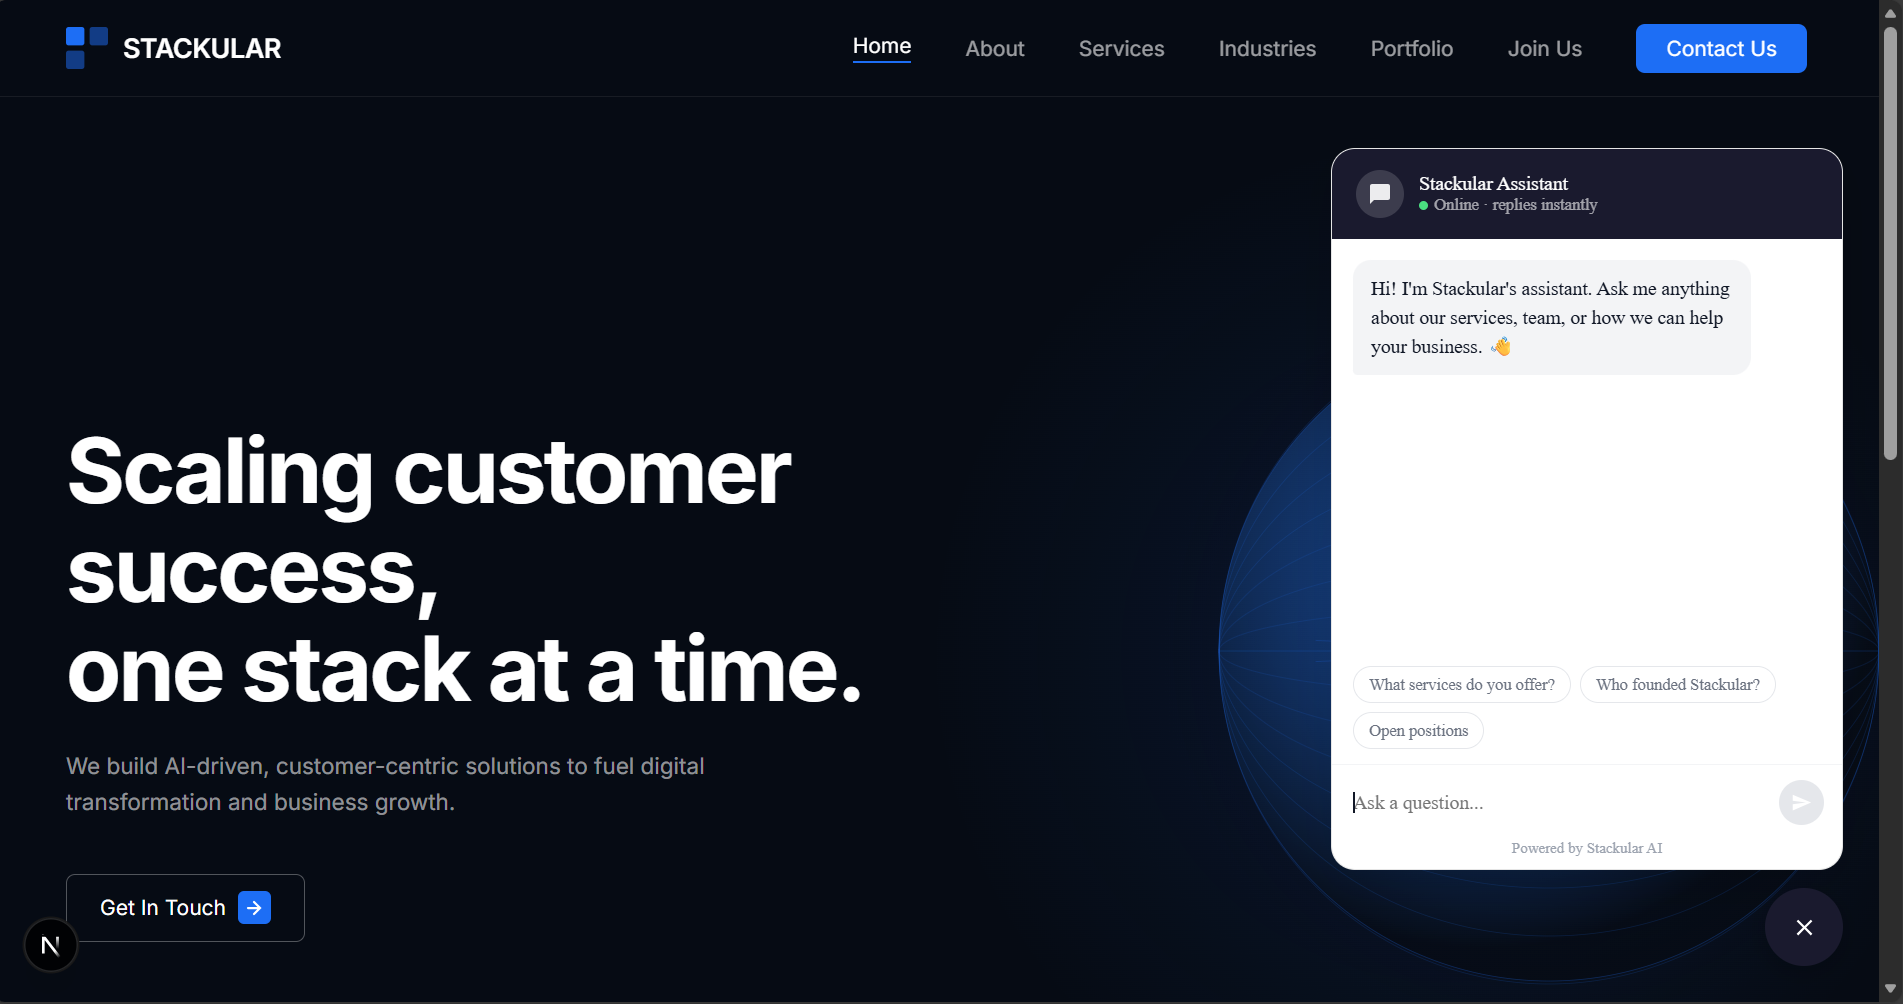
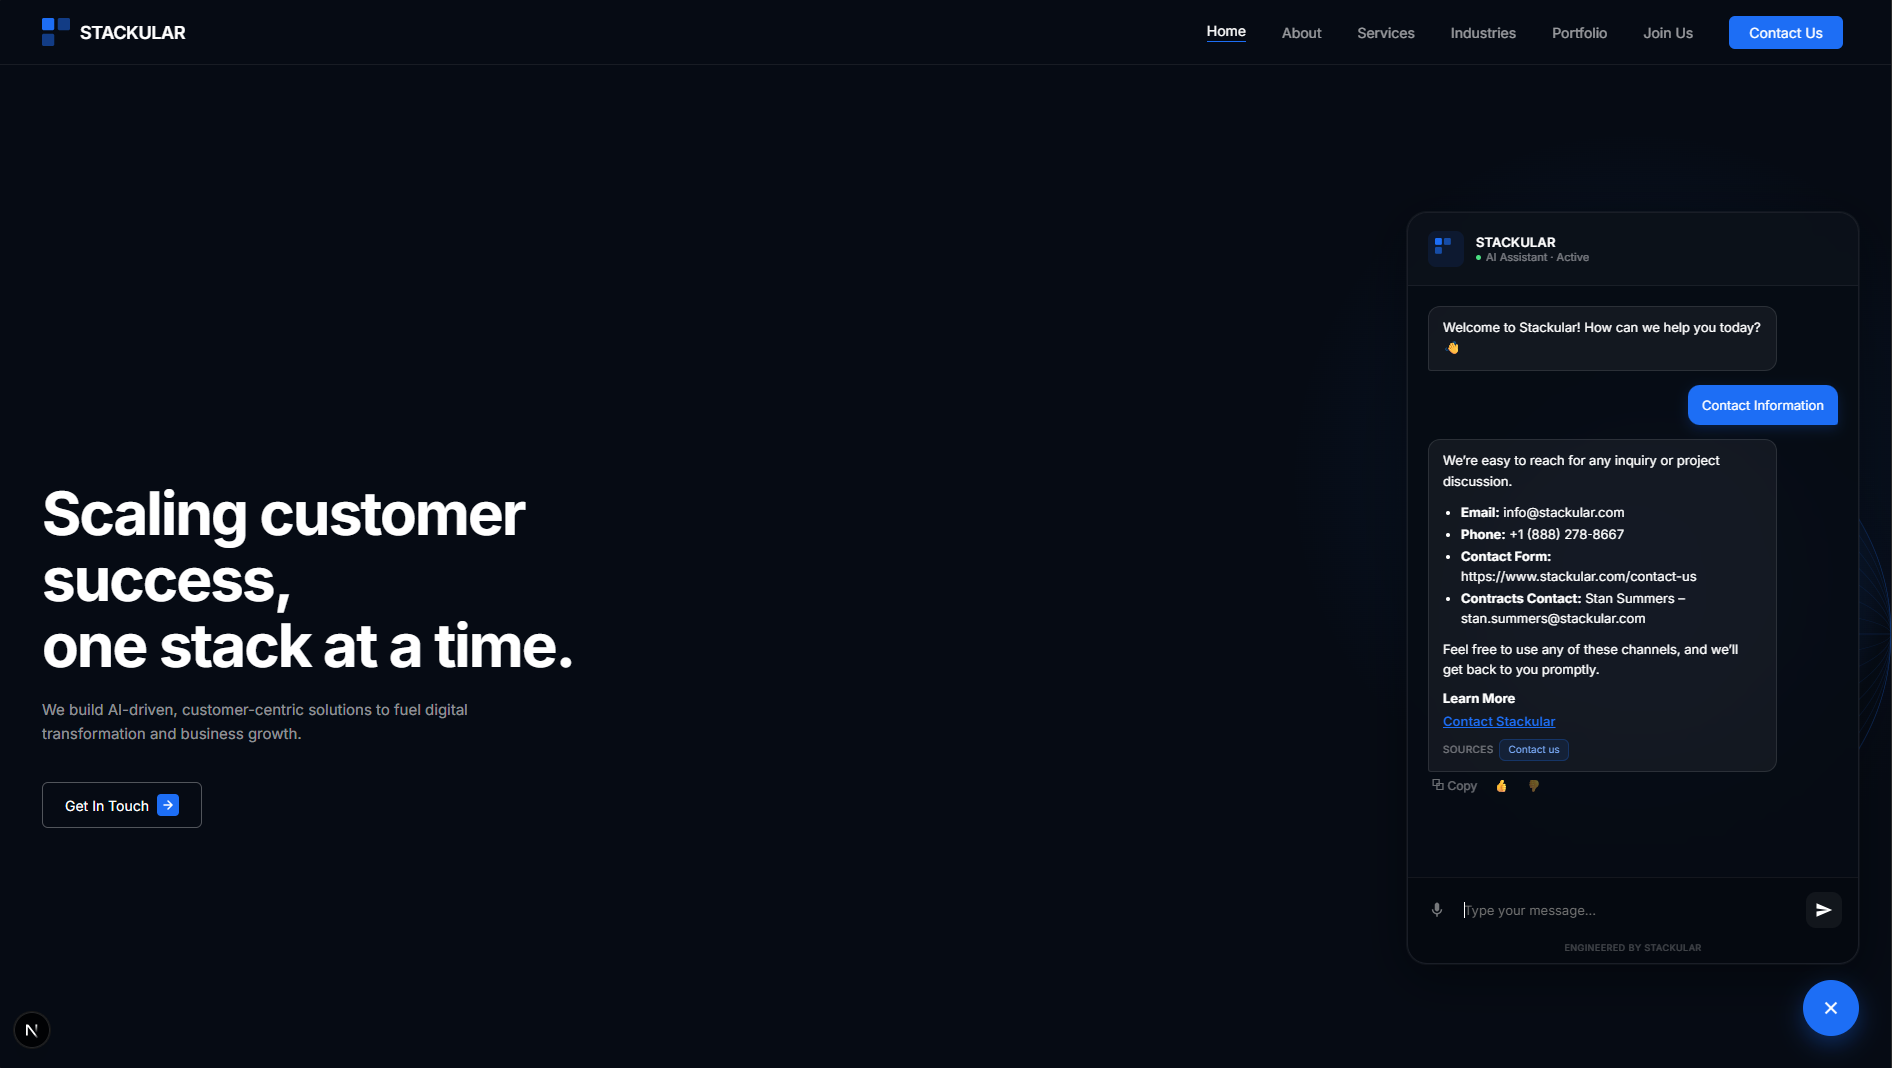
docs: rewrite README to match main's structure, archive scratch/legacy files
README now mirrors main branch's narrative structure (What We Did ->
Architectural Flow -> Models -> Try the Chatbot -> Run steps -> demo
screenshots) while keeping text_rag's more accurate hybrid-search +
rerank content that main's version predates. Swaps the stale March
chatbot-ui.png (pre-dates feedback/sources UI) for a current screenshot.

Moves root-level scratch notes, the deprecated manual_reindex.py, and
early research notes into archive/, organized by role, each explained
in archive/README.md. Nothing deleted - full git history preserved via
renames. Updates directory-structure.md and known-issues.md, which
were already pointing at files that no longer existed.

diff --git a/README.md b/README.md
@@ -1,12 +1,12 @@
 # Stackular Website Chatbot
 
-This project is an AI-powered website chatbot designed for the Stackular website. It provides automated, context-aware responses to user queries relating to Stackular's services, industry expertise, and company contact information.
+This project is an AI-powered website chatbot designed for the Stackular website. It provides automated, context-aware responses to visitor queries relating to Stackular's services, industry expertise, and company contact information.
 
-## What We Built
+## What We Did
 
-A RAG (Retrieval-Augmented Generation) chatbot that answers questions about Stackular using a curated knowledge base. The bot uses hybrid search (dense vectors + BM25 keyword matching) against a Pinecone index to retrieve relevant context, then streams grounded answers from Llama 3.3 70B via Groq.
+We built an intelligent Retrieval-Augmented Generation (RAG) chatbot capable of answering questions about Stackular. Content is maintained as a curated Markdown knowledge base rather than scraped at runtime, so answers stay grounded in reviewed, accurate information. The bot combines dense vector search with BM25 keyword matching (hybrid search), reranks the results for relevance, and streams grounded answers back to the visitor in real time.
 
-## How It Works — Architectural Flow
+## How We Did It — Architectural Flow
 
 ```
 User query
@@ -17,21 +17,23 @@ Next.js frontend (ChatWidget.jsx)
     ▼
 FastAPI backend (port 8000)
     │
+    ├─ Follow-ups rewritten into standalone queries (condense_question)
+    │
     ├─ Hybrid retrieval from Pinecone
     │    ├─ Dense: BAAI/bge-small-en (384-dim, local)
     │    └─ Sparse: BM25Encoder (pinecone-text)
     │
+    ├─ Reranked to the most relevant chunks (Pinecone-hosted bge-reranker-v2-m3)
+    │
     ├─ Context + chat history injected into prompt
     │
-    └─ Groq API → llama-3.3-70b-versatile → StreamingResponse
+    └─ Groq API → openai/gpt-oss-120b → StreamingResponse (SSE)
 ```
 
 ### Knowledge Base & Indexing Flow
 
-Content is maintained as a manually curated Markdown file — no runtime web scraping.
-
 ```
-knowledge_base.md (local Markdown)
+knowledge_base.md (local Markdown, source of truth)
     │
     ├─ RecursiveCharacterTextSplitter (600 chars / 100 overlap)
     │
@@ -45,21 +47,24 @@ knowledge_base.md (local Markdown)
 To update the knowledge base:
 1. Edit `knowledge_base.md`
 2. Trigger a reindex: `POST /admin/reindex` with header `X-Admin-Token: <your-token>`
+3. Confirm it landed: `GET /health` should report `vectors_in_index` greater than zero
 
-## Models and Technologies
+## Models and Technologies Used
 
 ### Core Models
 
 | Component | Value |
 |---|---|
-| LLM | `llama-3.3-70b-versatile` via Groq API, temperature 0.3 |
+| LLM | `openai/gpt-oss-120b` via Groq API, temperature 0.3 |
+| Query condensing | `openai/gpt-oss-20b` via Groq API — rewrites follow-ups before retrieval |
 | Embedding | `BAAI/bge-small-en` (384-dim, local via sentence-transformers) |
 | Sparse | BM25Encoder via `pinecone-text` |
+| Reranker | `bge-reranker-v2-m3`, Pinecone-hosted |
 
 ### Infrastructure Stack
 
 - **Vector Database:** Pinecone serverless (AWS us-east-1, `dotproduct` metric — required for hybrid search)
-- **Backend API:** FastAPI + Uvicorn (port 8000)
+- **Backend API:** FastAPI + Uvicorn (port 8000), rate-limited via slowapi
 - **Frontend:** Next.js 14 App Router (port 3000)
 - **Orchestration:** LangChain (text splitting, message formatting)
 - **Dev runner:** `concurrently` via root `npm run dev:all`
@@ -69,16 +74,34 @@ To update the knowledge base:
 - Floating chat bubble (bottom-right, fixed position)
 - Full markdown rendering: bullet lists, numbered lists, bold, inline code, links (XSS-safe)
 - Voice input via Web Speech API
-- Lead capture card on high-intent queries (pricing, demo, hire, etc.)
+- Copy, 👍/👎 feedback, and retry-on-error on every bot message
 - "Talk to the team" CTA after 3+ bot exchanges
 - Chat resets on every page refresh (no localStorage persistence)
 - Mobile-responsive panel (`min(360px, calc(100vw - 32px))`)
 
-## How to Run Locally
+## API Endpoints
+
+| Method | Path | Auth | Description |
+|---|---|---|---|
+| GET | `/` | None | Health ping |
+| GET | `/health` | None | Returns `{status, vectors_in_index}` |
+| POST | `/chat` | None (rate-limited) | Streaming chat (text/event-stream) |
+| POST | `/event` | None (rate-limited) | Lightweight product analytics event |
+| POST | `/feedback` | None (rate-limited) | 👍/👎 rating on a chat message |
+| POST | `/admin/reindex` | `X-Admin-Token` header | Triggers background reindex from knowledge_base.md |
+
+## Try the Chatbot
+
+*(Placeholder: link to the deployed application will go here once hosted publicly.)*
+
+Until then, follow the steps below to run it locally — the walkthrough ends with a look at it actually running.
+
+## How to Run the Project Locally
 
 ### 1. Prerequisites
 
-- Python 3.10+ (3.11 or 3.12 recommended for production)
+Ensure you have the following installed on your system:
+- Python 3.10+ (3.11 or 3.12 recommended for production — see the Pydantic warning note below)
 - Node.js & npm (v18+)
 
 ### 2. Environment Configuration
@@ -96,11 +119,15 @@ ALLOWED_ORIGINS=*
 
 ### 3. Install Root Dependencies
 
+From the root of the project directory (`Stackular_Demo`), install the dependencies that allow running the app in one command:
+
 ```bash
 npm install
 ```
 
 ### 4. Install Component Dependencies
+
+Make sure both halves of the project are set up:
 
 **Backend:**
 ```bash
@@ -120,44 +147,21 @@ cd ..
 
 ### 5. Start the Application
 
+Return to the root directory (`Stackular_Demo`) and run the following command to boot both systems concurrently. On first run, the backend downloads the embedding model and auto-creates the Pinecone index if it doesn't exist, then populates it from `knowledge_base.md` on the first request if it's empty.
+
 ```bash
 npm run dev:all
 ```
 
-Both services start concurrently. On first run, the backend downloads the embedding model and auto-creates the Pinecone index (if it doesn't exist). The index is populated from `knowledge_base.md` automatically on the first request if it is empty.
+![App Running in Terminal](assests/terminal-output.png)
 
-*(You will see Uvicorn start on port 8000 and Next.js start on port 3000)*
+**The Pydantic warning explained**<br>
+<sub>*UserWarning: Core Pydantic V1 functionality isn't compatible with Python 3.14 or greater.*</sub><br>
+<sub>*LangChain relies on Pydantic V1 internally, and Python 3.14 is new enough to trip a compatibility warning against it. It's non-blocking — the app runs normally — but for a production environment, use Python 3.11 or 3.12, the current stable standards for AI/ML libraries.*</sub>
 
 ### 6. Access the Application
 
-Open your browser and navigate to `http://localhost:3000`.
+Open your browser and navigate to:
+`http://localhost:3000`
 
-> **Pydantic V1 warning:** LangChain uses Pydantic V1 internally. Python 3.14 triggers a compatibility warning — it is non-blocking and the app runs normally. Use Python 3.11/3.12 in production to avoid this.
-
-## API Endpoints
-
-| Method | Path | Auth | Description |
-|---|---|---|---|
-| GET | `/` | None | Health ping |
-| GET | `/health` | None | Returns `{status, vectors_in_index}` |
-| POST | `/chat` | None | Streaming chat (text/event-stream) |
-| POST | `/admin/reindex` | `X-Admin-Token` header | Triggers background reindex from knowledge_base.md |
-
-## Updating the Knowledge Base
-
-1. Edit `knowledge_base.md` with new or corrected content
-2. Save the file
-3. Trigger a reindex:
-
-```bash
-curl -X POST http://localhost:8000/admin/reindex \
-  -H "X-Admin-Token: your_admin_token_here"
-```
-
-4. Verify it completed:
-
-```bash
-curl http://localhost:8000/health
-```
-
-The `vectors_in_index` count should be greater than zero.
+![Chatbot User Interface](assests/chatbot-ui.png)

diff --git a/.claude/rules/directory-structure.md b/.claude/rules/directory-structure.md
@@ -7,29 +7,35 @@ Stackular_Demo/
 ├── package.json                 ← root scripts: `npm run dev:all` starts both services
 ├── knowledge_base.md            ← fully curated source-of-truth for RAG (all website pages)
 ├── bm25_params.json             ← fitted BM25 sparse encoder params (auto-generated on reindex)
-├── manual_reindex.py            ← ⚠ DO NOT USE — uses bge-large-en-v1.5 (1024-dim), breaks index
-├── verify_rag.py                ← test retrieval quality
-├── verify_response.py           ← test end-to-end response quality
-├── interaction.md               ← example Q&A showing desired output format
-├── project_review.txt           ← senior dev review with roadmap recommendations
+├── assests/                     ← README screenshots (chatbot-ui.png, terminal-output.png)
+├── archive/                     ← not part of the running app — old scripts, notes, research; see archive/README.md
+│   ├── deprecated-scripts/manual_reindex.py  ← ⚠ DO NOT USE — bge-large-en-v1.5 (1024-dim), breaks the runtime index
+│   ├── notes/                   ← early to-do list, an early prompt draft
+│   └── research/                ← early RAG/hybrid-search research notes (not the knowledge base itself)
 │
 ├── stackular-api/               ← FastAPI backend (Python 3.14, venv at .venv/)
-│   ├── main.py                  ← FastAPI app, CORS middleware, lazy startup
-│   ├── reindex.py               ← in-package reindex helper (not the root manual_reindex.py)
-│   ├── requirements.txt         ← no selenium/beautifulsoup4/webdriver-manager
+│   ├── main.py                  ← FastAPI app, lifespan startup, CORS + rate-limit middleware
+│   ├── reindex.py               ← in-package reindex helper (not the archived manual_reindex.py)
+│   ├── requirements.txt
 │   ├── .env                     ← GROQ_API_KEY, PINECONE_API_KEY, ADMIN_TOKEN, ALLOWED_ORIGINS
+│   ├── eval/                    ← retrieval/response quality eval harness (eval_set.jsonl + run_eval.py)
 │   └── app/
-│       ├── core/config.py       ← Settings: PINECONE_API_KEY, GROQ_API_KEY, ADMIN_TOKEN, ALLOWED_ORIGINS
-│       ├── models/schemas.py    ← ChatRequest with field_validator (strips whitespace, ≤1000 chars)
+│       ├── core/
+│       │   ├── config.py        ← Settings: API keys, ADMIN_TOKEN, ALLOWED_ORIGINS, model names, rate limits
+│       │   ├── logging_config.py ← structured stdout logging for the 'stackular' logger namespace
+│       │   └── rate_limit.py    ← shared slowapi Limiter (keyed by client IP)
+│       ├── models/schemas.py    ← ChatRequest, EventRequest, FeedbackRequest
 │       ├── api/
-│       │   ├── deps.py          ← get_embedder() + get_index() (lazy singletons, auto-creates index)
+│       │   ├── deps.py          ← get_embedder() / get_index() / get_pinecone_client() (lazy singletons)
 │       │   ├── main.py          ← APIRouter aggregator
 │       │   └── routes/
-│       │       ├── chat.py      ← POST /chat → StreamingResponse (text/event-stream)
+│       │       ├── chat.py      ← POST /chat → StreamingResponse (text/event-stream), rate-limited
 │       │       ├── health.py    ← GET /health → {status, vectors_in_index}
-│       │       └── admin.py     ← POST /admin/reindex → requires X-Admin-Token header
+│       │       ├── admin.py     ← POST /admin/reindex → requires X-Admin-Token header
+│       │       ├── events.py    ← POST /event → lightweight analytics (logged, not persisted)
+│       │       └── feedback.py  ← POST /feedback → 👍/👎 on a message (logged, not persisted)
 │       └── services/
-│           └── rag_service.py   ← core RAG logic
+│           └── rag_service.py   ← core RAG logic: hybrid retrieval, rerank, query condensing, streaming
 │
 └── stackular-frontend/          ← Next.js 14 frontend (App Router)
     ├── .env.local               ← NEXT_PUBLIC_CHATBOT_API_URL=http://localhost:8000

diff --git a/.claude/rules/known-issues.md b/.claude/rules/known-issues.md
@@ -1,7 +1,7 @@
 # Known Issues / Gotchas
 
 1. **dotproduct metric is mandatory** — Pinecone hybrid search only works with `dotproduct`. The old index was `cosine` and caused crashes. `deps.py` now auto-creates with `dotproduct`. If you ever need to recreate the index, delete it from the Pinecone console and restart the backend.
-2. **`manual_reindex.py` at repo root uses `bge-large-en-v1.5` (1024-dim)** — running it against the runtime `bge-small-en` index (384-dim) will break dimension compatibility. Use `POST /admin/reindex` instead.
+2. **`archive/deprecated-scripts/manual_reindex.py` uses `bge-large-en-v1.5` (1024-dim)** — running it against the runtime `bge-small-en` index (384-dim) will break dimension compatibility. It's kept only for reference; use `POST /admin/reindex` instead.
 3. **Session history is in-memory** — `CHAT_HISTORY` dict is lost on server restart. Frontend chat also resets on page refresh (intentional — localStorage was removed).
 4. **Pydantic V1 warning** — LangChain uses Pydantic V1 internally; Python 3.14 triggers a warning. Non-blocking. Use Python 3.11/3.12 in production.
 5. **Emails from lead capture are not sent** — `LeadCaptureCard` shows a confirmation but no backend endpoint or email service (Resend, SendGrid, etc.) is wired up.

diff --git a/archive/README.md b/archive/README.md
@@ -1,0 +1,7 @@
+# Archive
+
+Not part of the running app. Kept for history/reference, organized by role:
+
+- **`deprecated-scripts/`** — old tooling that's been superseded and should not be run. `manual_reindex.py` uses `bge-large-en-v1.5` (1024-dim) and will break the runtime index (`bge-small-en`, 384-dim) if executed. Use `POST /admin/reindex` instead — see [`.claude/rules/api-endpoints.md`](../.claude/rules/api-endpoints.md).
+- **`notes/`** — scratch/working notes (early to-do list, an early prompt draft). Superseded by [`.claude/rules/roadmap.md`](../.claude/rules/roadmap.md) and the real prompt in [`stackular-api/app/services/rag_service.py`](../stackular-api/app/services/rag_service.py).
+- **`research/`** — background reading and notes from early RAG/hybrid-search research, kept separate from [`knowledge_base.md`](../knowledge_base.md) (the actual source of truth the chatbot indexes) to avoid the two being confused.
